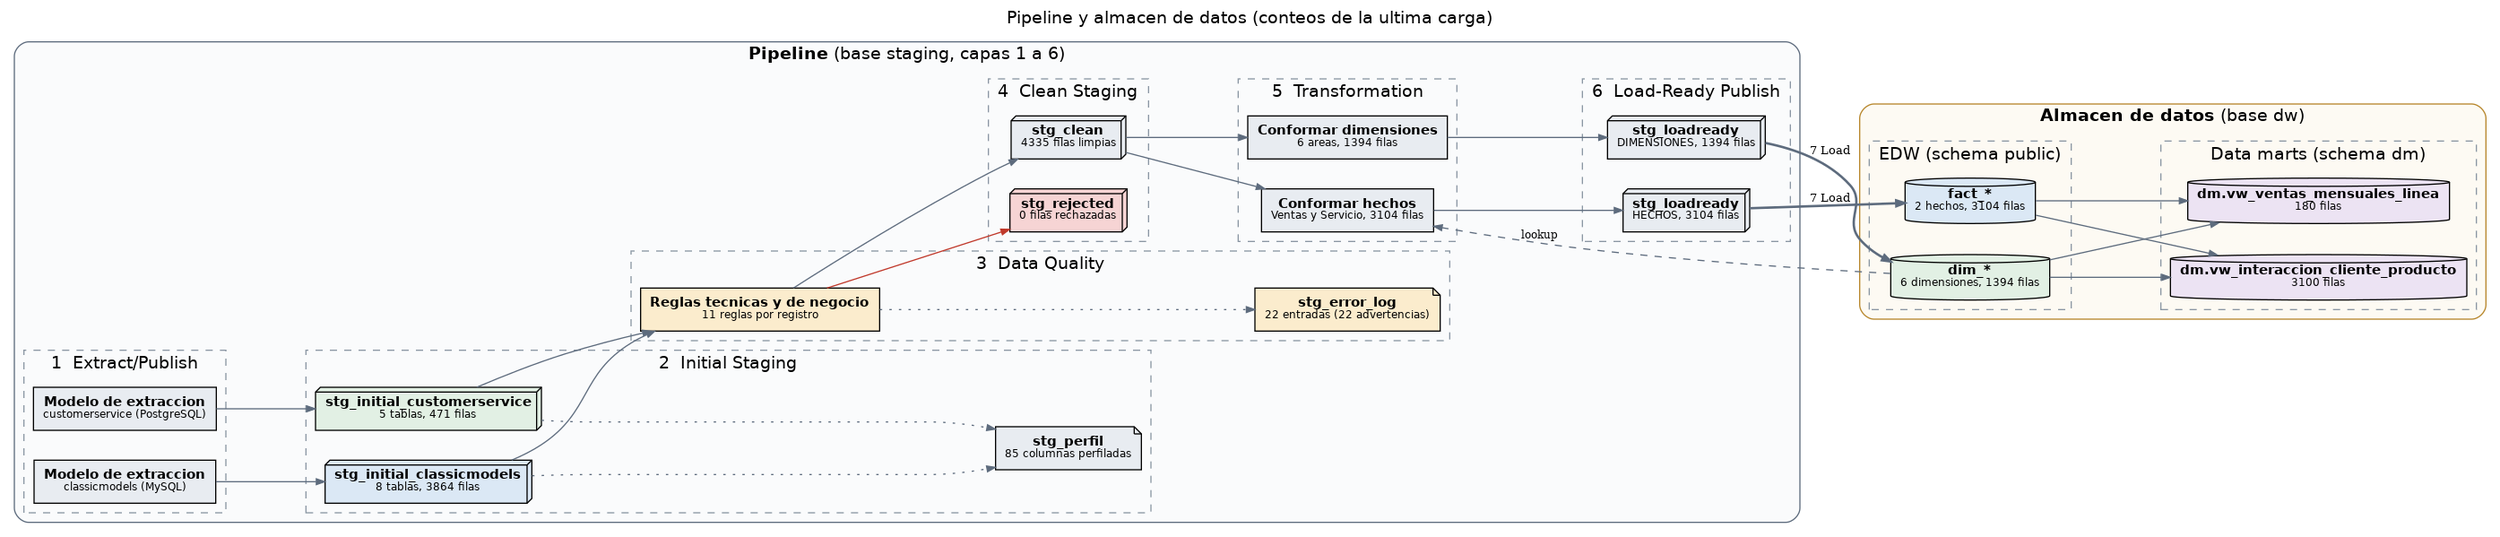
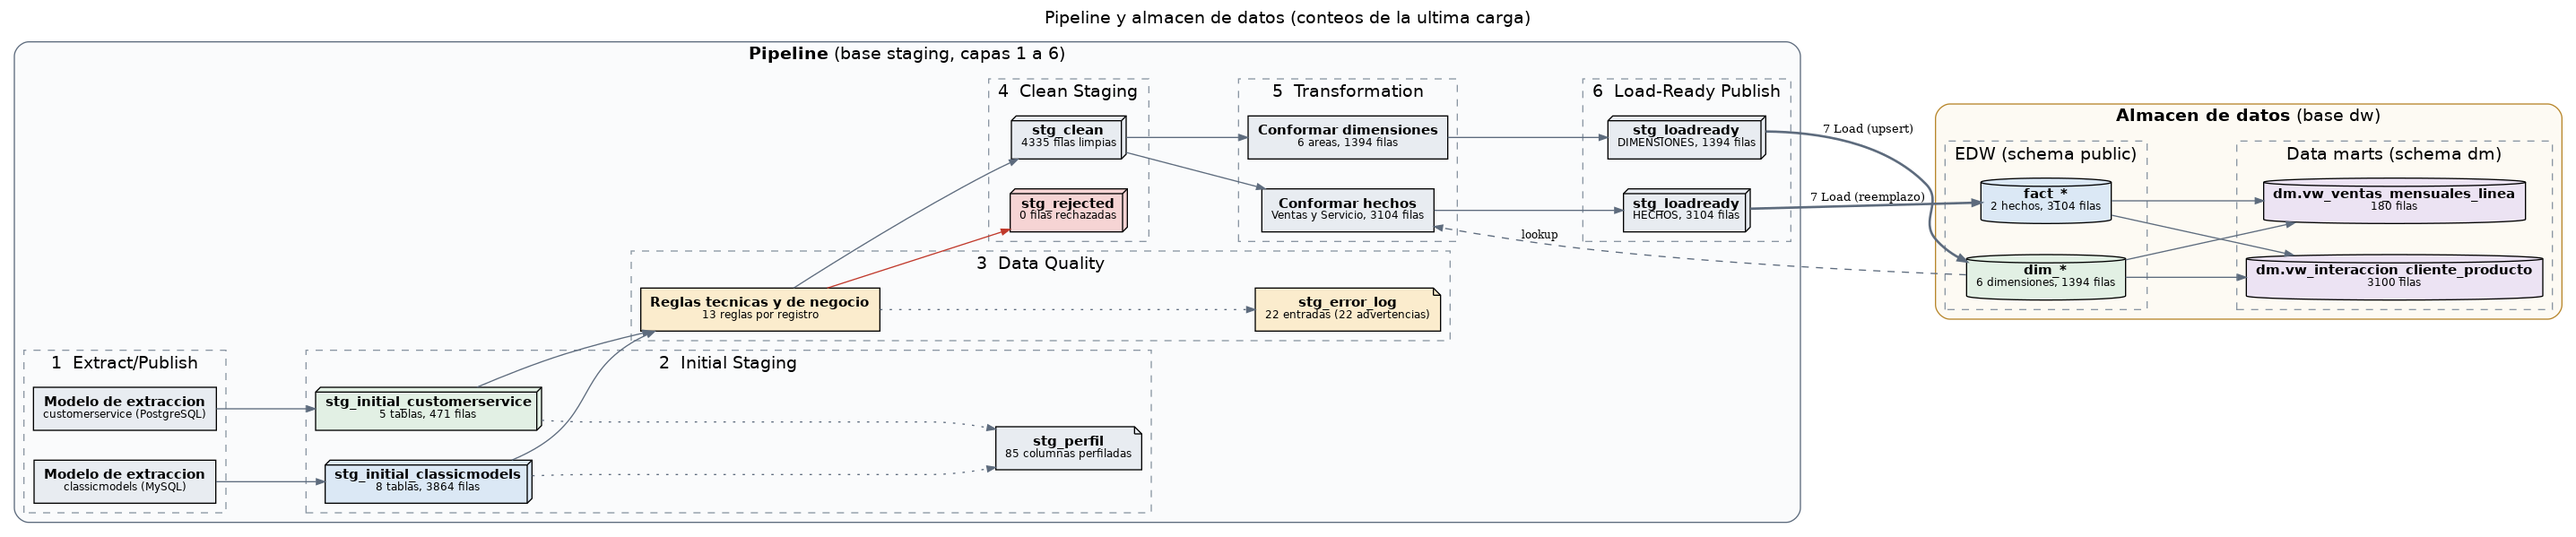
Regenerar backups, reporte de calidad y diagrama del pipeline
Salida de python run_all.py --reset con los cambios anteriores: las dos
reglas nuevas en el reporte, el repositorio de metadatos y el diagrama.
Las cifras de los datos no cambian.

Claude-Session: https://claude.ai/code/session_01S1AXh5dg8LE1xMRWncyPM9

diff --git a/docs/data_quality_report.md b/docs/data_quality_report.md
@@ -27,7 +27,7 @@ Qué le pasó a los datos en cada capa de la última carga completa: cuántos re
 | 4 · Clean Staging | 4.335 | 4.335 | 4.335 limpios, 0 rechazados |
 | 5 · Transformation | 4.335 | 4.498 | 6 dimensiones y 2 hechos conformados |
 | 6 · Load-Ready Publish | 4.498 | 4.498 | forma definitiva, sin transformaciones pendientes |
-| 7 · Load | 4.498 | 4.498 | tablas del modelo reemplazadas en una sola transacción |
+| 7 · Load | 4.498 | 4.498 | dimensiones por llave de negocio y hechos reemplazados, cada rama en una sola transacción |
 
 Entre las capas 4 y 5 el número de filas cambia porque la transformación cambia el grano: varias tablas fuente se consolidan en una dimensión, `dim_tiempo` se genera sin fuente y las tablas no usadas por el modelo no continúan.
 
@@ -61,7 +61,9 @@ Entre las capas 4 y 5 el número de filas cambia porque la transformación cambi
 | `consistencia_entre_fuentes_producto` | Negocio | Advierte | 110 | 0 | 0,0 % |
 | `precio_sugerido_coherente` | Negocio | Advierte | 110 | 0 | 0,0 % |
 | `envio_consistente_con_estado` | Negocio | Rechaza | 326 | 0 | 0,0 % |
+| `fecha_no_futura` | Negocio | Rechaza | 707 | 0 | 0,0 % |
 | `integridad_referencial` | Negocio | Rechaza | 4.059 | 0 | 0,0 % |
+| `padre_rechazado` | Negocio | Rechaza | 4.059 | 0 | 0,0 % |
 | `secuencia_de_fechas` | Negocio | Rechaza | 326 | 0 | 0,0 % |
 | `valores_positivos` | Negocio | Rechaza | 3.501 | 0 | 0,0 % |
 
